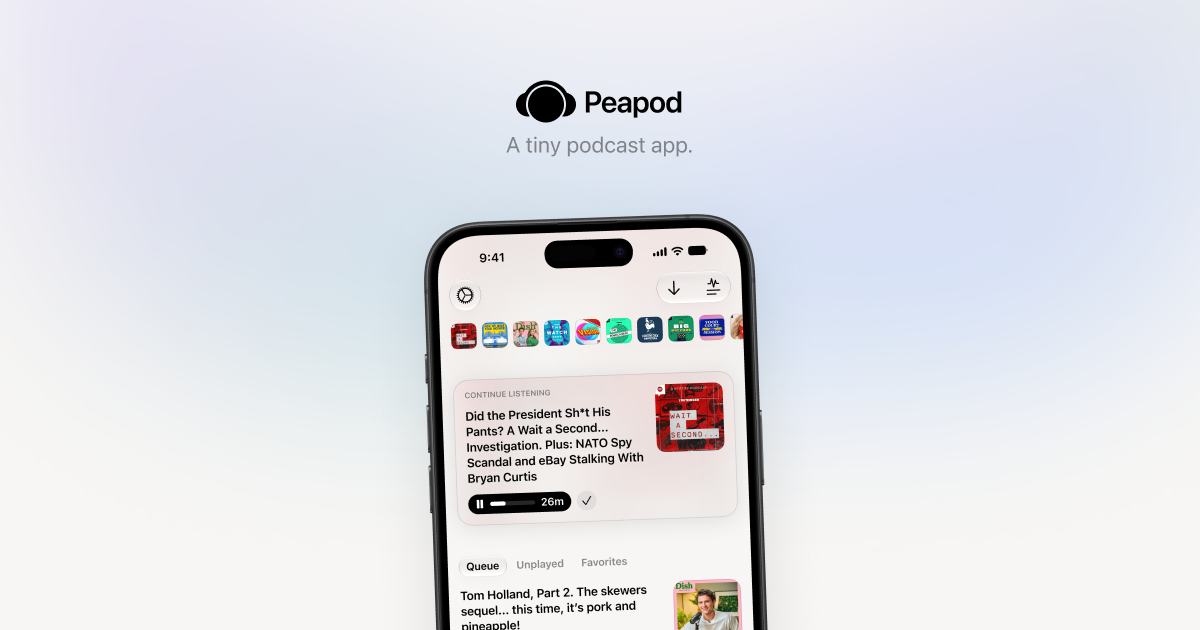
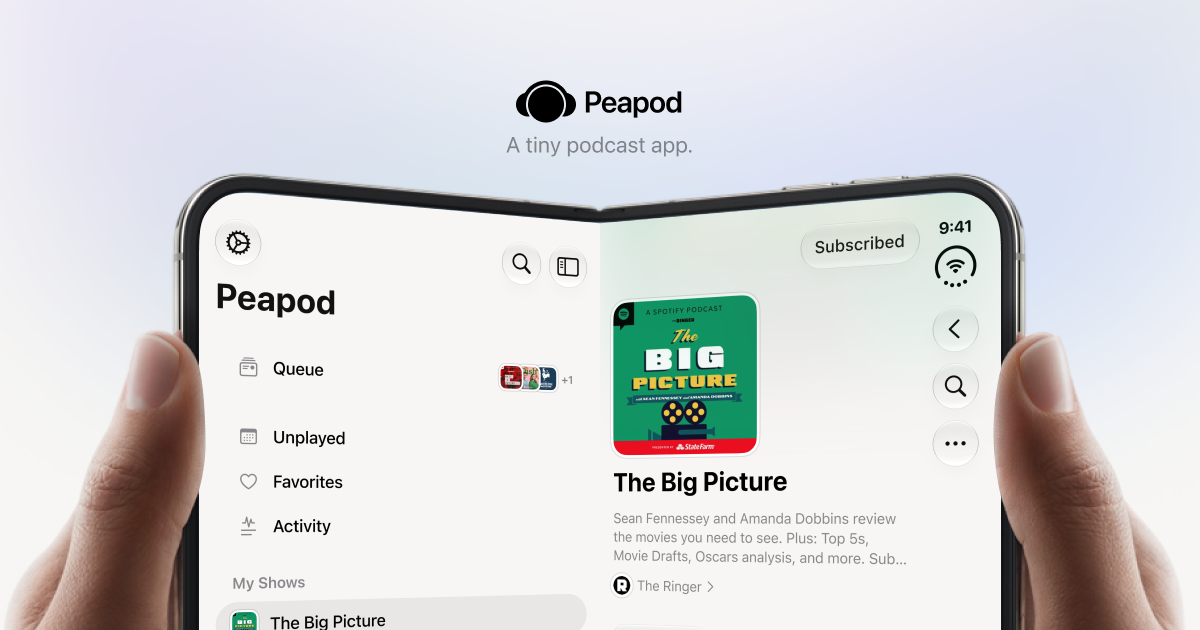
update marketing with duo assets

Changed region(s): [[0.0, 0.2714, 0.9867, 1.0], [0.2158, 0.6635, 0.2775, 0.7238], [0.7708, 0.5127, 0.8017, 0.5429]]

diff --git a/index.html b/index.html
@@ -21,7 +21,7 @@
     <a href="/" class="title"><span class="title"><svg class="mark" width="30" height="21" viewBox="0 0 30 21" fill="none" xmlns="http://www.w3.org/2000/svg" aria-hidden="true"><path d="M15 3C19.9706 3 24 7.02944 24 12C24 16.9706 19.9706 21 15 21C10.0294 21 6 16.9706 6 12C6 7.02944 10.0294 3 15 3ZM15 0C19.5189 0 23.4535 2.49814 25.5 6.18848C25.4884 6.18549 25.4765 6.18359 25.4648 6.18066C28.0704 6.83447 30 9.19164 30 12C30 15.3137 27.3137 18 24 18C23.6783 18 23.3627 17.9736 23.0547 17.9248C24.2766 16.2664 25 14.218 25 12C25 9.78172 24.2769 7.73275 23.0547 6.07422L23.0527 6.0752C21.2321 3.60457 18.3045 2 15 2C11.6953 2 8.76688 3.6043 6.94629 6.0752C6.94529 6.07504 6.94436 6.07438 6.94336 6.07422C5.72156 7.73258 5 9.78214 5 12C5 14.2178 5.72261 16.2665 6.94434 17.9248C6.63664 17.9735 6.32137 18 6 18C2.68629 18 0 15.3137 0 12C0 9.20419 1.91209 6.85449 4.5 6.18848C6.54649 2.49814 10.4811 0 15 0ZM4.94824 6.09375C4.90811 6.10083 4.86798 6.10736 4.82812 6.11523C4.86797 6.10734 4.90812 6.10085 4.94824 6.09375ZM25.1709 6.11523C25.131 6.10736 25.0909 6.10082 25.0508 6.09375C25.0909 6.10084 25.1311 6.10735 25.1709 6.11523ZM5.31738 6.03906C5.2644 6.04503 5.21173 6.05223 5.15918 6.05957C5.21173 6.0522 5.26441 6.04506 5.31738 6.03906ZM24.8398 6.05957C24.7873 6.05224 24.7346 6.04503 24.6816 6.03906C24.7346 6.04505 24.7873 6.05221 24.8398 6.05957ZM5.65723 6.00977C5.60591 6.01264 5.55487 6.01734 5.50391 6.02148C5.55487 6.01731 5.60591 6.01266 5.65723 6.00977ZM24.4951 6.02148C24.4442 6.01734 24.3931 6.01263 24.3418 6.00977C24.3931 6.01265 24.4442 6.01732 24.4951 6.02148Z" fill="currentColor"></path></svg>Peapod</span></a>
 
     <p class="pitch">A tiny podcast app that doesn’t f#@k with your queue.</p>
-    <p class="note">Free for iOS and macOS</p>
+    <p class="note"><span>iOS</span> <span>iPadOS</span> <span>macOS</span></p>
 
     <p class="cta">
       <a class="badge" href="https://apps.apple.com/ca/app/peapod/id6751155432">
@@ -37,18 +37,18 @@
     <div class="device-clip">
       <picture>
         <source media="(prefers-color-scheme: dark)"
-                srcset="flat-black.webp 1280w, flat-black@2x.webp 2560w, flat-black@3x.webp 3840w"
-                sizes="clamp(512px, 100vw, 1280px)">
-        <img src="flat-white.webp"
-             srcset="flat-white.webp 1280w, flat-white@2x.webp 2560w, flat-white@3x.webp 3840w"
-             sizes="clamp(512px, 100vw, 1280px)"
-             width="1280" height="906"
-             alt="Peapod’s queue on iPhone">
+                srcset="duo.webp 635w, duo@2x.webp 1269w, duo@3x.webp 1905w"
+                sizes="clamp(512px, 100vw, 1269px)">
+        <img src="duo.webp"
+             srcset="duo.webp 635w, duo@2x.webp 1269w, duo@3x.webp 1905w"
+             sizes="clamp(512px, 100vw, 1269px)"
+             width="1269px" height="841"
+             alt="Peapod on iPhone Duo">
       </picture>
     </div>
   </figure>
 
-  <figure class="device">
+  <!--<figure class="device">
     <div class="device-clip">
       <picture>
         <source media="(prefers-color-scheme: dark)"
@@ -61,7 +61,7 @@
              alt="Peapod’s queue on macOS">
       </picture>
     </div>
-  </figure>
+  </figure>-->
 </main>
 
 <footer class="home-foot">

diff --git a/styles.css b/styles.css
@@ -129,6 +129,9 @@ h1 {
   color: var(--muted);
   font-size: 12px;
   font-weight: 600;
+  display: flex;
+  gap: 32px;
+  justify-content: center;
 }
 
 /* ---- device shot ---- */
